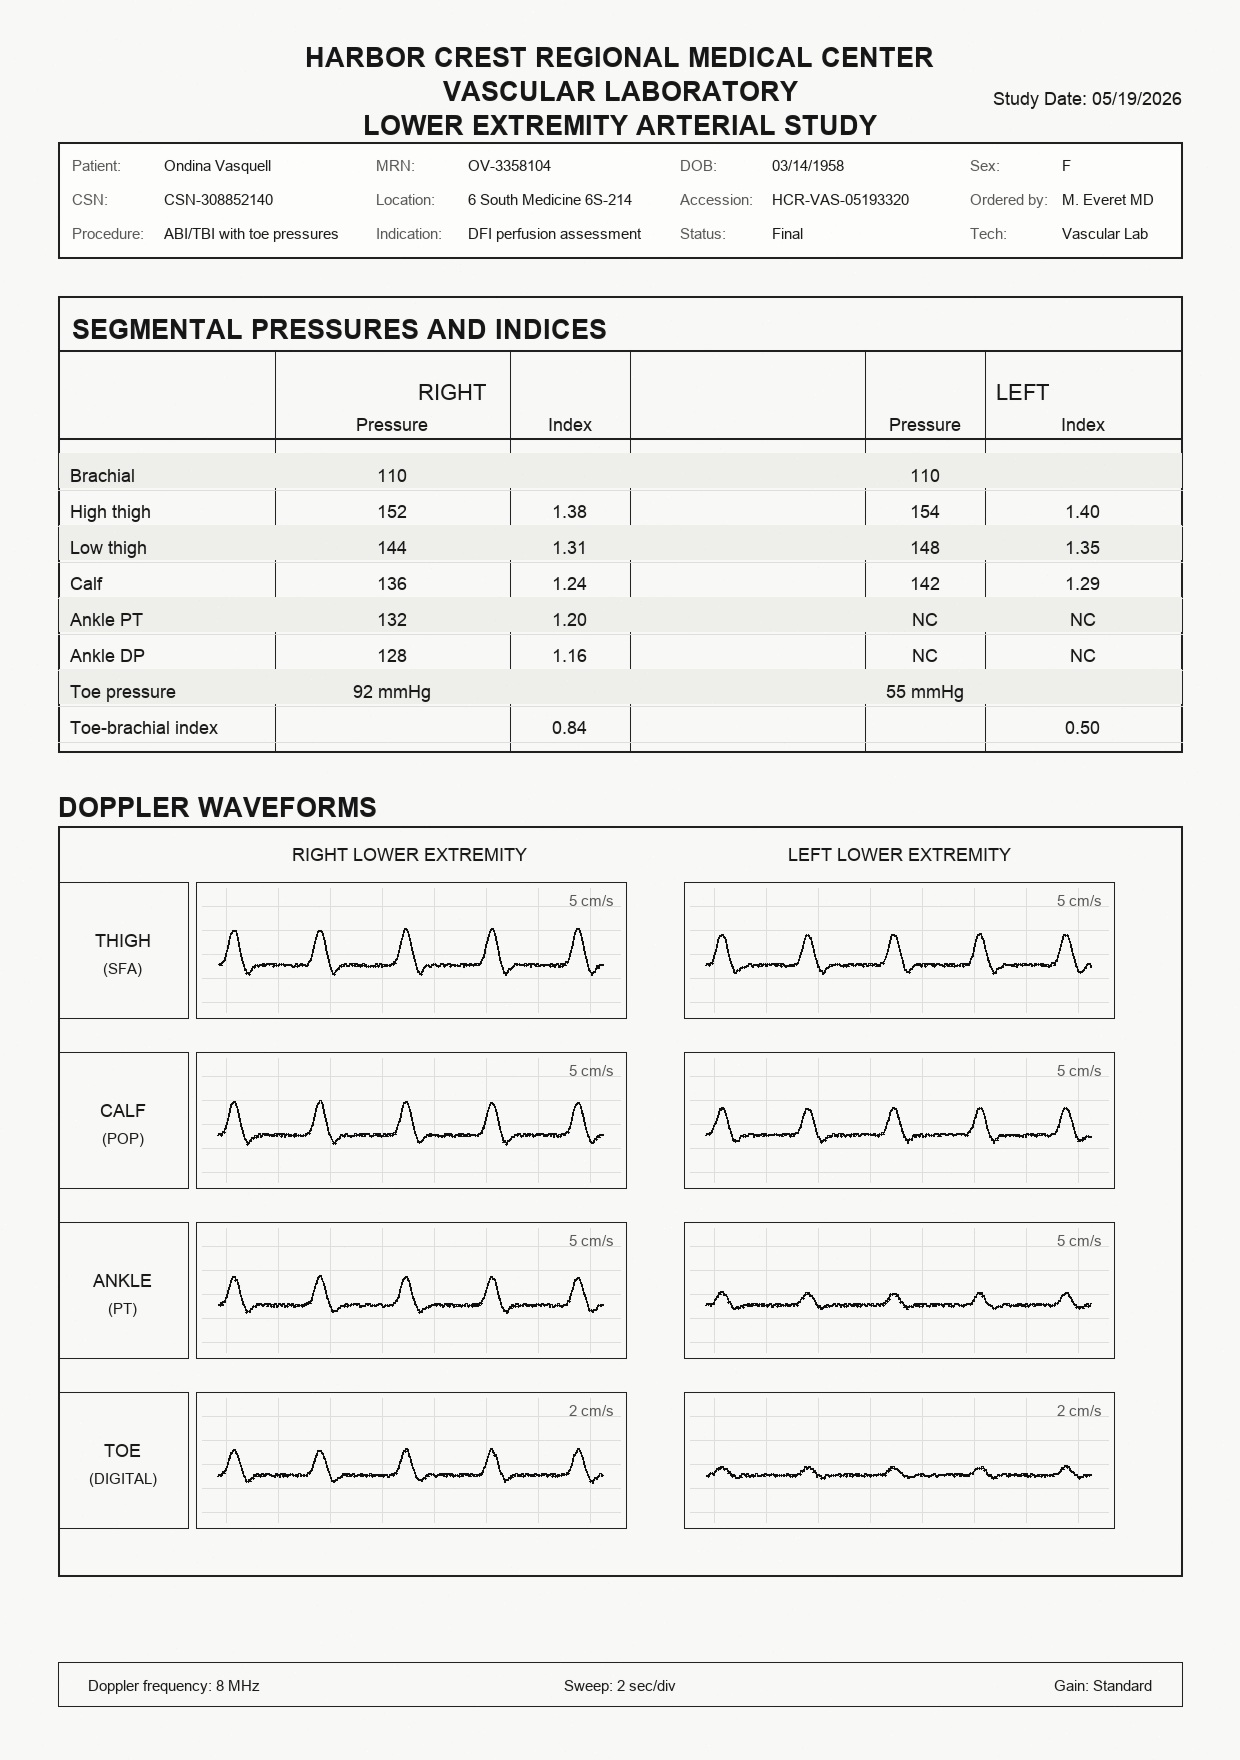
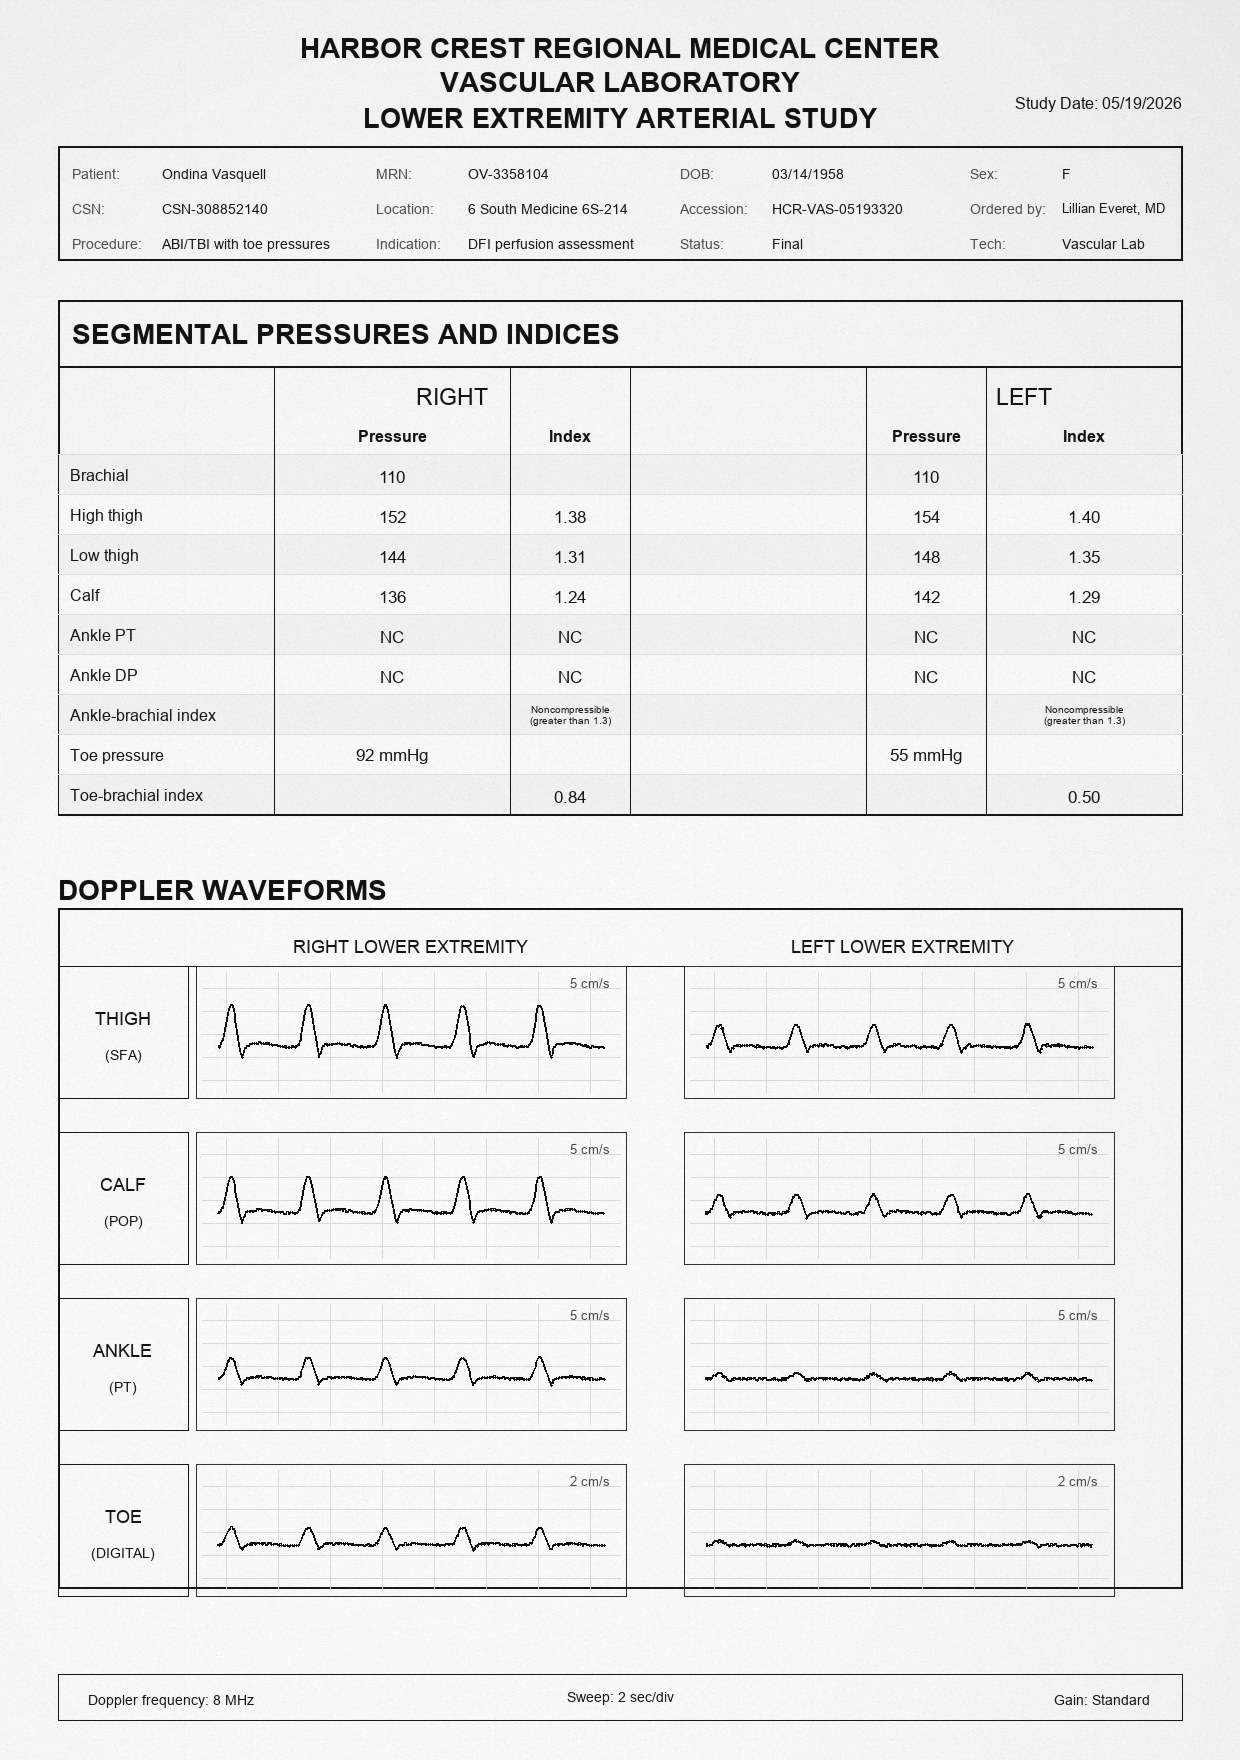
Fix Ondina ABI TBI tracing image

diff --git a/worlds/ondina-vasquell/00-START-HERE.md b/worlds/ondina-vasquell/00-START-HERE.md
@@ -32,5 +32,5 @@ Patient: Ondina Vasquell, 68F, Spanish-preferred, insulin-dependent T2DM with di
 | AutoQC 2.5 intentional-ambiguity defenses | Drafted same-day per KM lesson: phase-2-world-spec-and-substrate/2c-autoqc-25-defense-notes.md |
 | Task setup OV01-OV10 (Step 10) | BUILT 6/12 (commits 46fe434, b6fd2a1). Full KM-style package per task in phase-3-build-task-artifacts/platform/taskN/current/: prompt-OVxx.txt (de-hinted, physician voice), golden-OVxx-v1.docx (CANONICAL Epic template via build_goldens.py, dispositions grounded in ratified substrate, physician-confirm flags), grader-guidelines-OVxx.txt (Sang five-block, golden named, chart-aware, no weights), RUN-INSTRUCTIONS.md, OVxx-v1-pilot-preregistration.md, OVxx-A0.5-fairness-check.md. All 10 goldens verified subset of world-file fills/colors, zero synthetic/KM/banned tokens, A0.5 PASS (golden self-satisfies grader anchors, traps chart-refutable). AUTHORSHIP: prompt and grader are reviewer-drafted candidates; golden clinical determinations are physician-owned and await Alexander finalize. Builders: build_goldens.py, build_task_packages.py. PENDING (Alexander): finalize goldens, Task AutoQC, trajectories, FA/GA, preference labeling, human review |
 | Reference templates, Custom Made, Mode A HIM/EMR | BUILT 6/12 (commit 92338eb) and IMAGE-COMPLETE 6/13. 29 world DOCX (EW1-EW29) + 2 writer-produced images (EW30-EW31) + 3 supplementary + 9 task = 43 files. DOCX files are Mode A clones of a CLEAN KM Epic-note base, body rebuilt from the canonical clinical_data module, scrub_all_metadata + verify_no_synthetic + zero banned chars + styles preserved + world dates <= snapshot. Pipeline: phase-3-build-task-artifacts/build/ (clinical_data.py, task_data.py, epic.py, build_world_files.py, build_task_files.py). Outputs: world-files/, supplementary-files/, task-files/ (SEPARATED). Manifest + SHAs + physician-ratified derived values: PHASE-3-FILE-MANIFEST.md. SECOND PASS 6/12 (commits 3893d15, 1c81c7f): rewrote epic.py to the EXACT KM design system (constants from generate_reference_files.py: body INK 232830, section BLUE 4472C4 with C9D4EA rule, title NAVY 1F3864 14pt, storyboard CARD EDF2FA, blue table headers + white, masthead + blue bar + PATIENT/ENCOUNTER block); fingerprint now a clean subset of the KM fills/colors vocabulary. FIXED a header/footer leak (clone bases carried Korvin Merrow / KM-6427819 / Mercy Vale in running header/footer; clear_body left them) by clearing+rebuilding all header/footer parts and adding a verify_no_km_identifiers gate; all 41 DOCX pass both gates. 6/13 report-realism pass added accession, order, specimen, collection, report, and source metadata to MRI, ABI/TBI, pathology, micro, renal, and inflammatory trend files. Render-verified across note, report-table, and task-letter genres. Audit record: SECOND-PASS-STYLE-AUDIT.md |
-| Writer-produced media | COMPLETE: phase-3-build-task-artifacts/codex-image-prompts.md produced EW30 wound_photo_05202026.jpg and EW31 abi_tbi_tracing_05192026.jpg. Copies live in synthetic-files/ and world-files/. EW30 visually verified as a plantar diabetic foot wound with no exposed bone, no visible joint, no identifiers, and no osteomyelitis-resolving clue. EW31 visually verified as raw ABI/TBI tracing with the synthetic Ondina EMR header, left TBI 0.50, left toe pressure 55 mmHg, no interpretation text, and no revascularization text. EXIF length is 0 for both. Hashes: EW30 2cb1eea1e4f1019b; EW31 e4d06ebeda57d99d |
+| Writer-produced media | COMPLETE: phase-3-build-task-artifacts/codex-image-prompts.md produced EW30 wound_photo_05202026.jpg and EW31 abi_tbi_tracing_05192026.jpg. Copies live in synthetic-files/ and world-files/. EW30 visually verified as a plantar diabetic foot wound with no exposed bone, no visible joint, no identifiers, and no osteomyelitis-resolving clue. EW31 visually verified as raw ABI/TBI tracing with the synthetic Ondina EMR header, Lillian Everet, MD as ordering clinician, bilateral ankle PT and DP marked NC, bilateral ankle-brachial index noncompressible, toe values R 92 / 0.84 and L 55 / 0.50, no interpretation text, and no revascularization text. EXIF length is 0 for both. Hashes: EW30 2cb1eea1e4f1019b; EW31 d0354413c690f53a |
 | 30+ world files, 90/10 mix, 4 modalities | MET: 29 world DOCX + 2 images = 31 world-level (>= 30 floor); modalities span clinical notes, radiology/vascular/path reports, lab+flowsheet grids, external correspondence, and 2 images; about 93 percent essential |

diff --git a/worlds/ondina-vasquell/phase-4-pilot-review-submit/audit-response-2026-06-13.md b/worlds/ondina-vasquell/phase-4-pilot-review-submit/audit-response-2026-06-13.md
@@ -14,10 +14,7 @@ Reaudited against the bytes and fixed the true gaps. Rebuilt through the canonic
 
 ## Delegated: image vision-gate (by eye)
 - wound_photo: PASS. Single granulating plantar-forefoot ulcer with a measuring ruler; NO exposed bone, joint, gangrene, eschar, or identifiers. Consistent with EW6/EW12 and keeps the osteomyelitis question open.
-- abi_tbi_tracing: TWO GAPS found, both require ONE Codex regeneration (image is writer-produced, not pipeline-built):
-  1. "Ordered by: M. Everet MD" is the stale pre-rename initial; must read Lillian Everet, MD.
-  2. The right ankle shows measurable indices (1.20 / 1.16) while EW9 states ankle indices noncompressible BILATERALLY. The left side (NC, TBI 0.50, toe 55) and both toe values (R 92/0.84, L 55/0.50) are correct.
-  Root cause: the EW31 spec said only "left ankle noncompressible." Spec corrected to require both ankles NC and the correct ordering clinician; after-generation checklist now mandates an eye cross-check of ordering-clinician initial and bilateral NC against EW9 (the byte gate cannot read image text). EW31 is flagged for regeneration to the corrected spec before any pilot leans on it.
+- abi_tbi_tracing: FIXED and PASS after regeneration. Ordered by now reads Lillian Everet, MD; both ankle PT and DP rows are NC bilaterally; the ankle-brachial index row is noncompressible bilaterally; toe values are R 92 / 0.84 and L 55 / 0.50; no interpretation, adequate-perfusion, inadequate-perfusion, or revascularization text appears. The world-file and synthetic-file copies are byte-identical, grayscale 1240 by 1760 JPGs, EXIF length 0, SHA256 d0354413c690f53aae74ada2efd0de739c7acb84efafbaa92058873ca7ae4ef0.
 
 ## Delegated: adversarial wrongness vectors (deep-read)
 - T2 HIM coding worksheet: wrong-by-genre (pressure-injury principal + acute osteomyelitis POA). Chart rebuttals present: ED/podiatry/wound document a diabetic foot ulcer and infection (not pressure injury); MRI equivocal, pathology no bone, ID not established (osteo). Fair.
@@ -27,4 +24,4 @@ Reaudited against the bytes and fixed the true gaps. Rebuilt through the canonic
 All four are fair and chart-rebuttable, consistent with the per-task A0.5 records.
 
 ## Net
-Zero blocking issues remain in the DOCX substrate. One image (EW31) requires a Codex regeneration to the corrected spec; everything else is fixed and gate-green.
+Zero blocking issues remain in the DOCX substrate or writer-produced media. EW31 has been regenerated to the corrected spec and eye-checked against EW9.

diff --git a/worlds/ondina-vasquell/world-spec-prep/spec-audit-record-2026-06-13.md b/worlds/ondina-vasquell/world-spec-prep/spec-audit-record-2026-06-13.md
@@ -62,7 +62,7 @@ EW30 and EW31 are complete from `phase-3-build-task-artifacts/codex-image-prompt
 
 EW30 `wound_photo_05202026.jpg`: SHA256 2cb1eea1e4f1019b31568e475599723b2d08224aa578dc8d1e1f37487b207afa. Visual check confirms a plantar diabetic forefoot wound, no exposed bone, no visible joint, no identifiers, and no image-only answer to the osteomyelitis question. EXIF length is 0.
 
-EW31 `abi_tbi_tracing_05192026.jpg`: SHA256 e4d06ebeda57d99d851e694006ee7476fed0e3427ce025a4ef49d6af11e95a88. Visual check confirms raw ABI/TBI tracing with the synthetic Ondina EMR header, left ankle noncompressible, left toe pressure 55 mmHg, left TBI 0.50, no interpretation paragraph, and no revascularization language. EXIF length is 0.
+EW31 `abi_tbi_tracing_05192026.jpg`: SHA256 d0354413c690f53aae74ada2efd0de739c7acb84efafbaa92058873ca7ae4ef0. Visual check confirms raw ABI/TBI tracing with the synthetic Ondina EMR header, Ordered by Lillian Everet, MD, bilateral ankle PT and DP marked NC, bilateral ankle-brachial index noncompressible, toe values R 92 / 0.84 and L 55 / 0.50, no interpretation paragraph, and no revascularization language. EXIF length is 0.
 
 Follow-up fix from the image audit: harmonized `abi_tbi_study_report_05192026.docx`, `vascular_consult_note_05192026.docx`, and the Phase 3 manifest to the image values of left toe pressure 55 mmHg and left TBI 0.50. Rebuilt world files and task files after removing non-clinical filed/register wording from DOCX content. Visible and XML leakage scans are clean across world-files, supplementary-files, task-files, and the World Spec DOCX.
 
